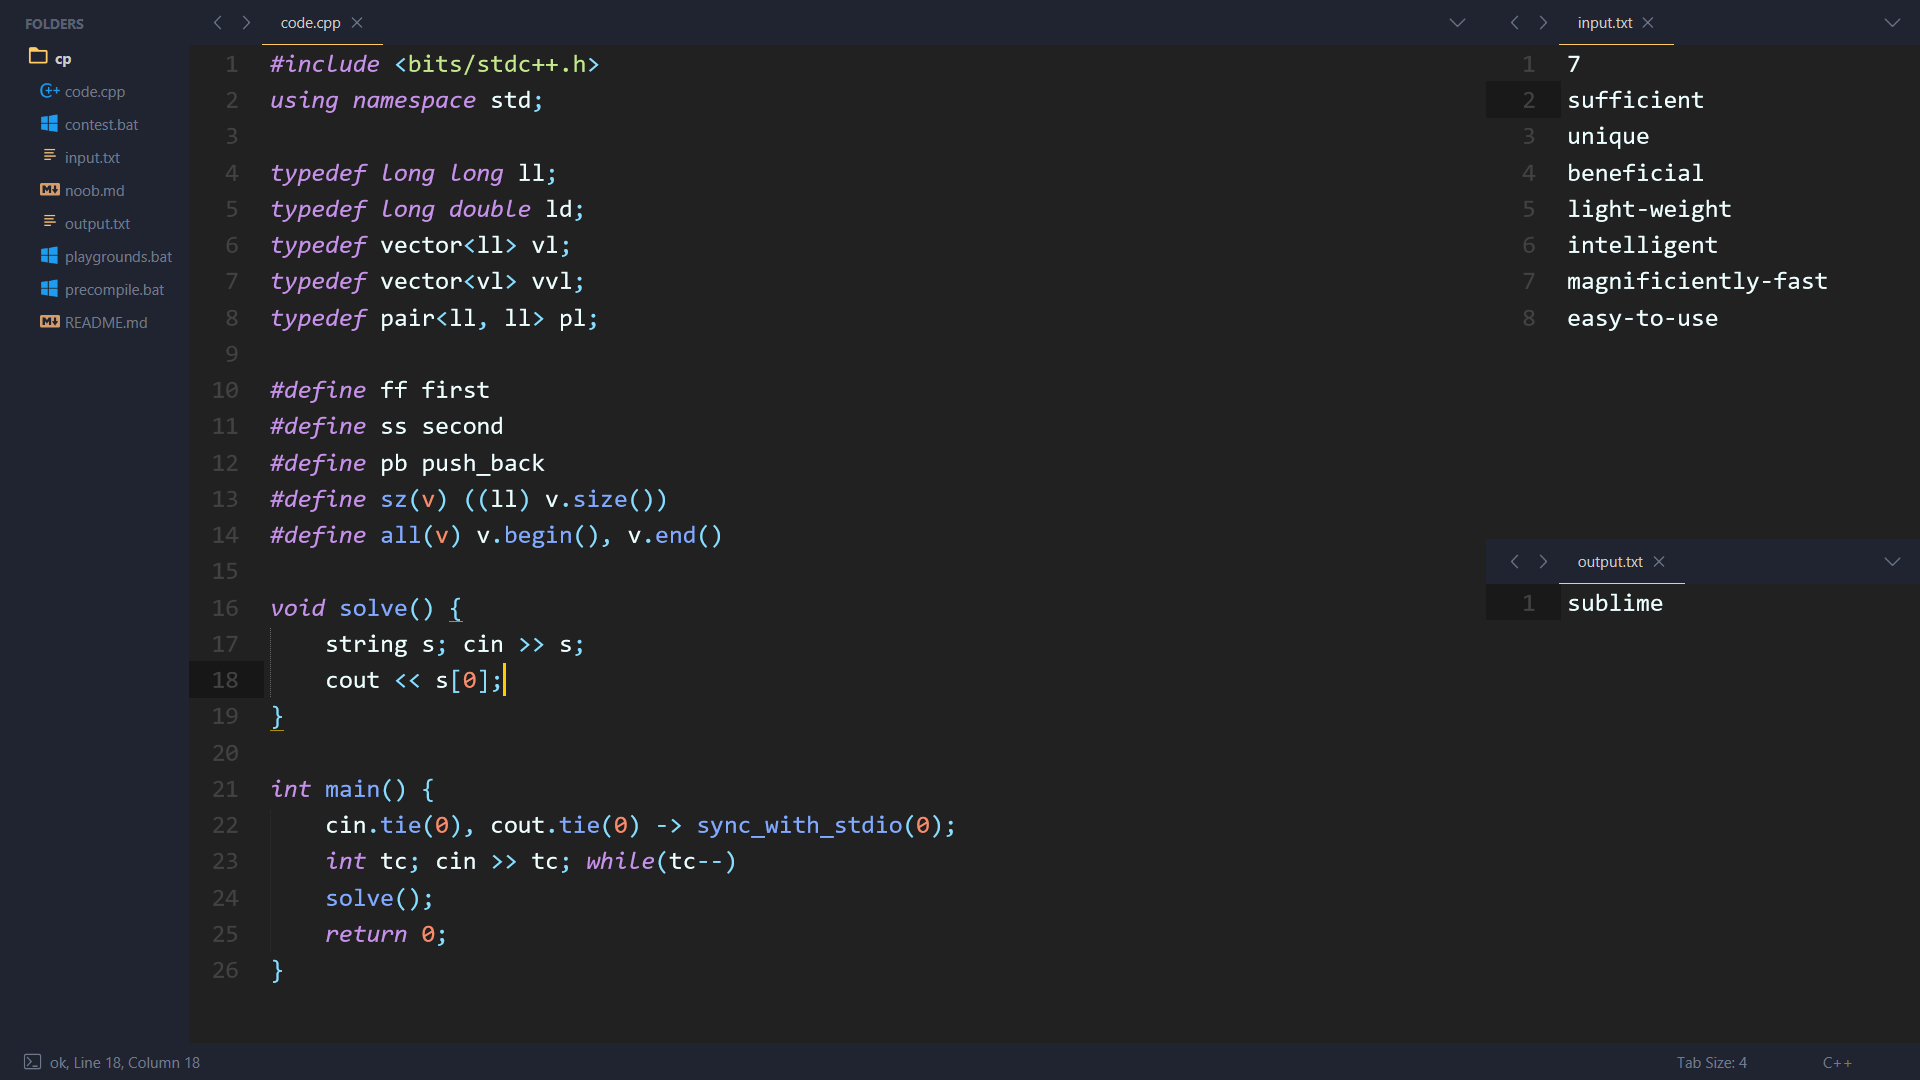
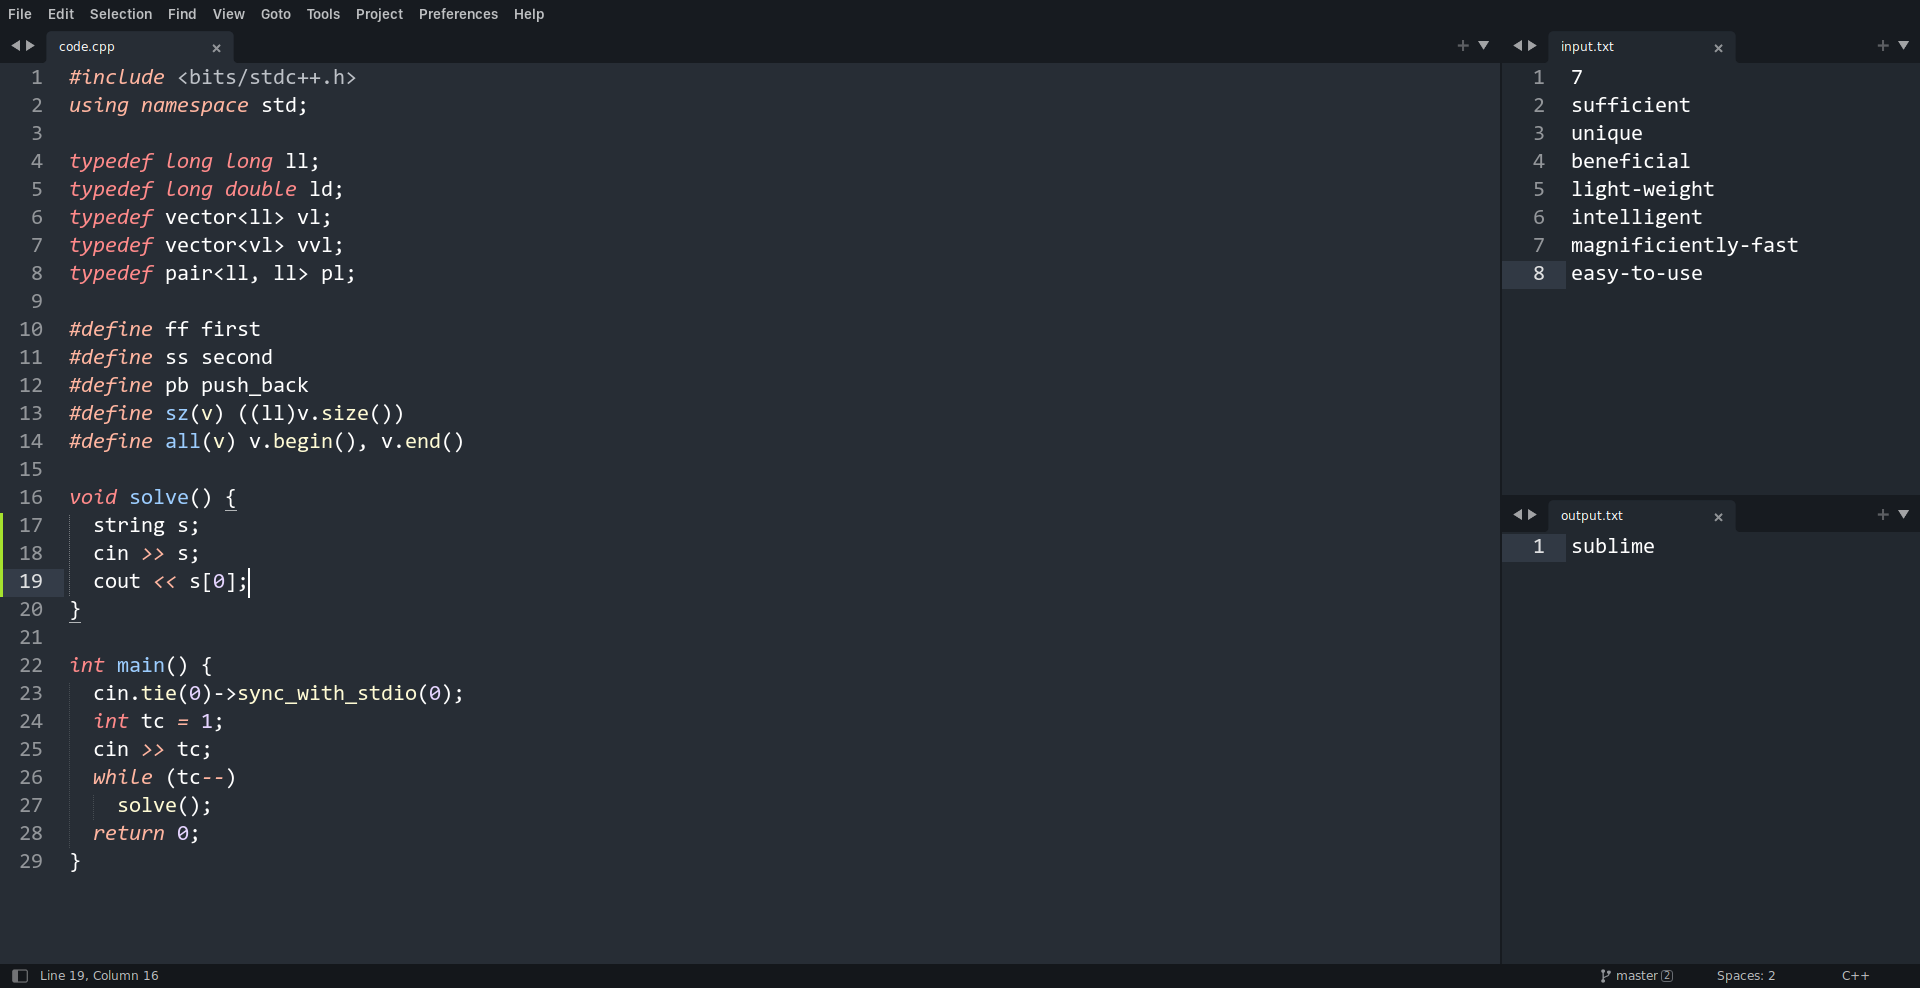
HyphenKing

diff --git a/code.cpp b/code.cpp
@@ -14,7 +14,9 @@ typedef pair<ll, ll> pl;
 #define all(v) v.begin(), v.end()
 
 void solve() {
-  
+  string s;
+  cin >> s;
+  cout << s[0];
 }
 
 int main() {

diff --git a/README.md b/README.md
@@ -25,19 +25,21 @@ This gives you easy access to 1000s of awesome packages hosted on https://packag
 
 I use the following packages:
 
-* [**FileIcons**](https://packagecontrol.io/packages/FileIcons "Download Link") for a colourful minimal icon pack.
-
 <!-- * [**Ayu**](https://packagecontrol.io/packages/ayu "Download Link") as the overall theme. -->
 
 <!-- * [**Material Theme**](https://packagecontrol.io/packages/Material%20Theme "Download Link") as the color scheme. -->
 
-* [**Material Theme**](https://packagecontrol.io/packages/Material%20Theme "Download Link") as the color scheme.
+* [**FileIcons**](https://packagecontrol.io/packages/FileIcons "Download Link") for a colourful minimal icon pack.
+
+* [**10% Too Dull for My Tastes Color Scheme**](https://packagecontrol.io/packages/10%25%20Too%20Dull%20for%20My%20Tastes%20Color%20Scheme "Download Link") for the color scheme.
 
 * [**Markdown Extended**](https://packagecontrol.io/packages/Markdown%20Extended "Download Link") for markdown syntax highlighting.
 
-* [**SideBarEnhancements**](https://packagecontrol.io/packages/SideBarEnhancements "Download Link") for extra control over the SideBar Folders.
+* [**Markdown Preview**](https://packagecontrol.io/packages/MarkdownPreview "Download Link") for previewing and building Markdown files.
 
+* [**LSP**](https://packagecontrol.io/packages/LSP "Download Link") for fancy IDE features and Intellisense.
 
+* [**Terminus**](https://packagecontrol.io/packages/Terminus "Download Link") for an integrated Terminal experience.
 
 ## Usage
 I have 3 groups set up at all times (G1 - Source Code, G2 - Input & G3 - Output). My `C++ Bolt.sublime-build` Sublime Build takes the input from `input.txt` and prints the outut to `output.txt`. This is very convenient for problems available on Codeforces, AtCoder, CodeChef, etc. You no longer need to use the terminal. It all happens in front of you.
@@ -56,20 +58,19 @@ I have also included three shell scripts - `precompile`,  `contest` & `playgroun
 
 ## Interface
 
-![My Interface](interface.png "My Interface")
+![My Interface](utils/interface.png "My Interface")
 
 * Theme : Adaptive
-* Color Scheme : Scotchy (from )
-* Icon Pack : A File Icon
+* Color Scheme : Scotchy (from 10% Too Dull for My Tastes)
+* Icon Pack : FileIcons
 * Font : Consolas
 
-
-## Upcoming
-~~* v2021.2 (February 2021): Integrated Terminal for complete control over the Editor.~~
-
-~~* v2021.3 (March 2021): LSP + CLANGD integration to get IDE-like features.~~
-
-
 Keep tinkering around with Sublime. It's really fun to play around with it.
+
+## Changelog
+* MegaWhale (March Patch): Integrated Terminal for complete control over the Editor + LSP + CLANGD integration to get IDE-like features.
+
+* HyphenKing (May 2021): Live Debugger.
+
 
 *Made with :heart: by Freyam.*
